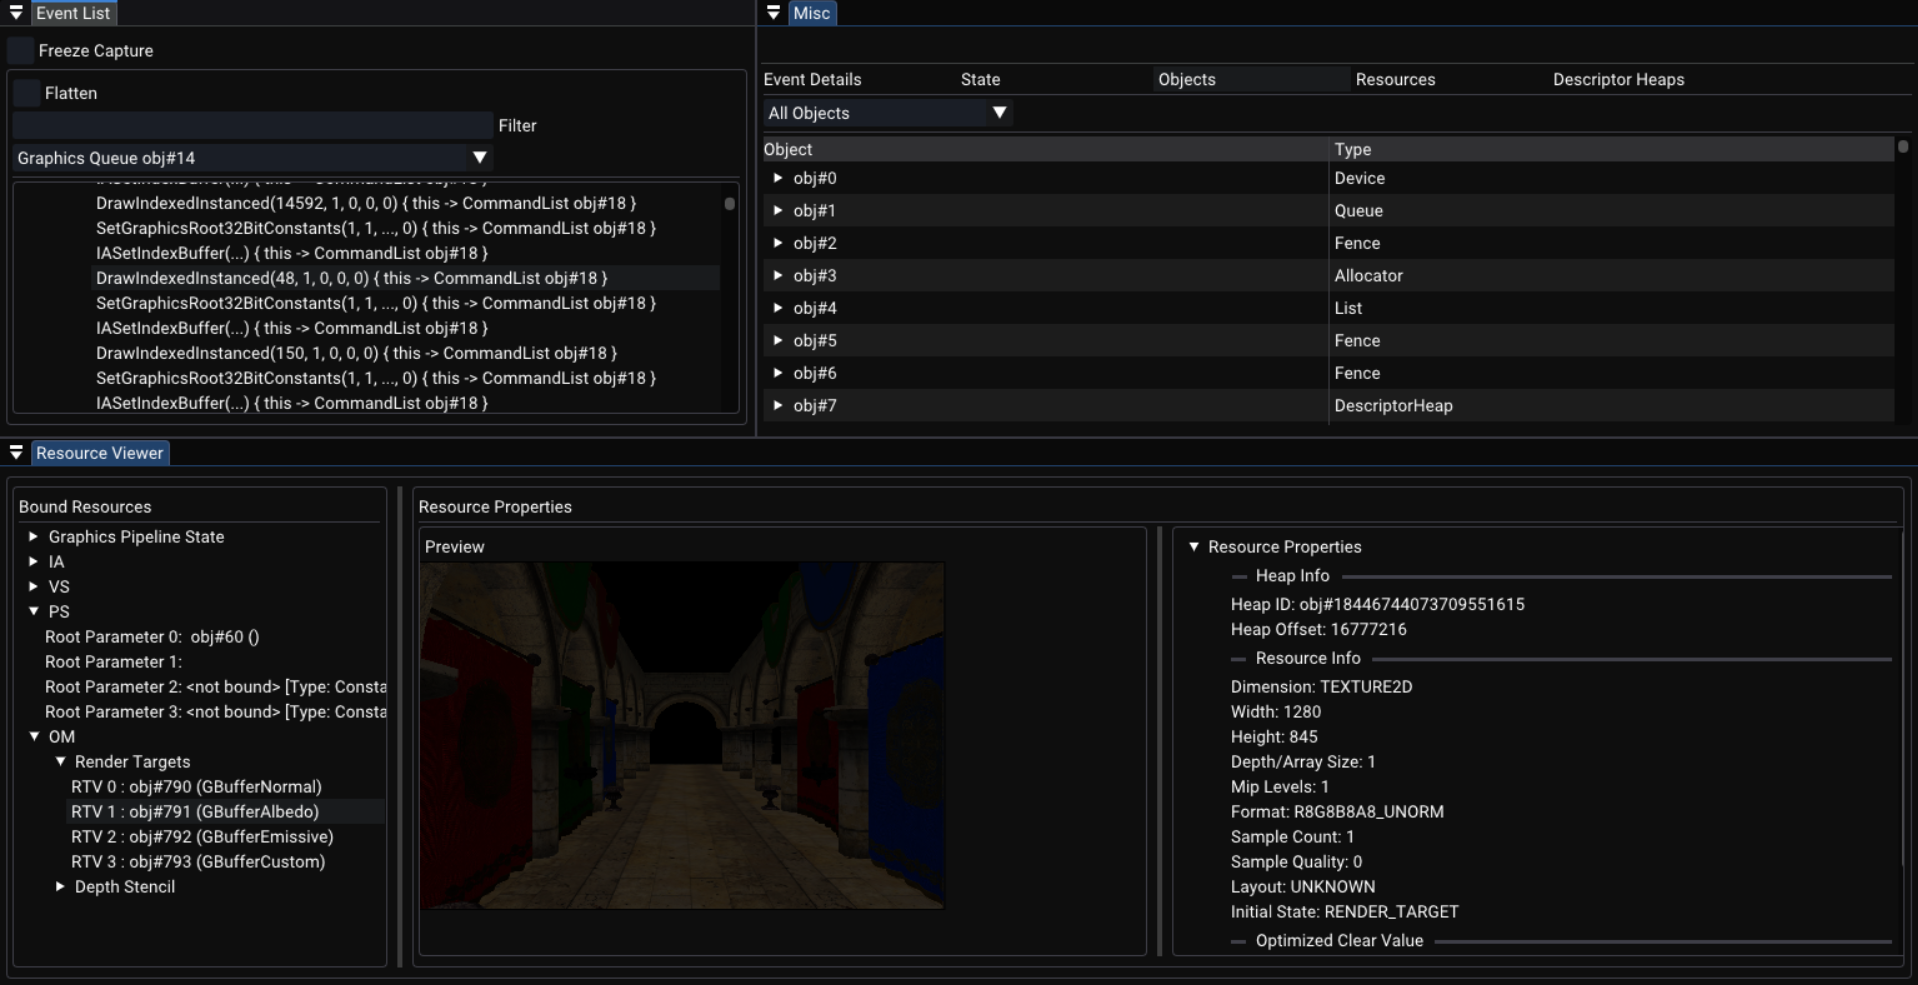
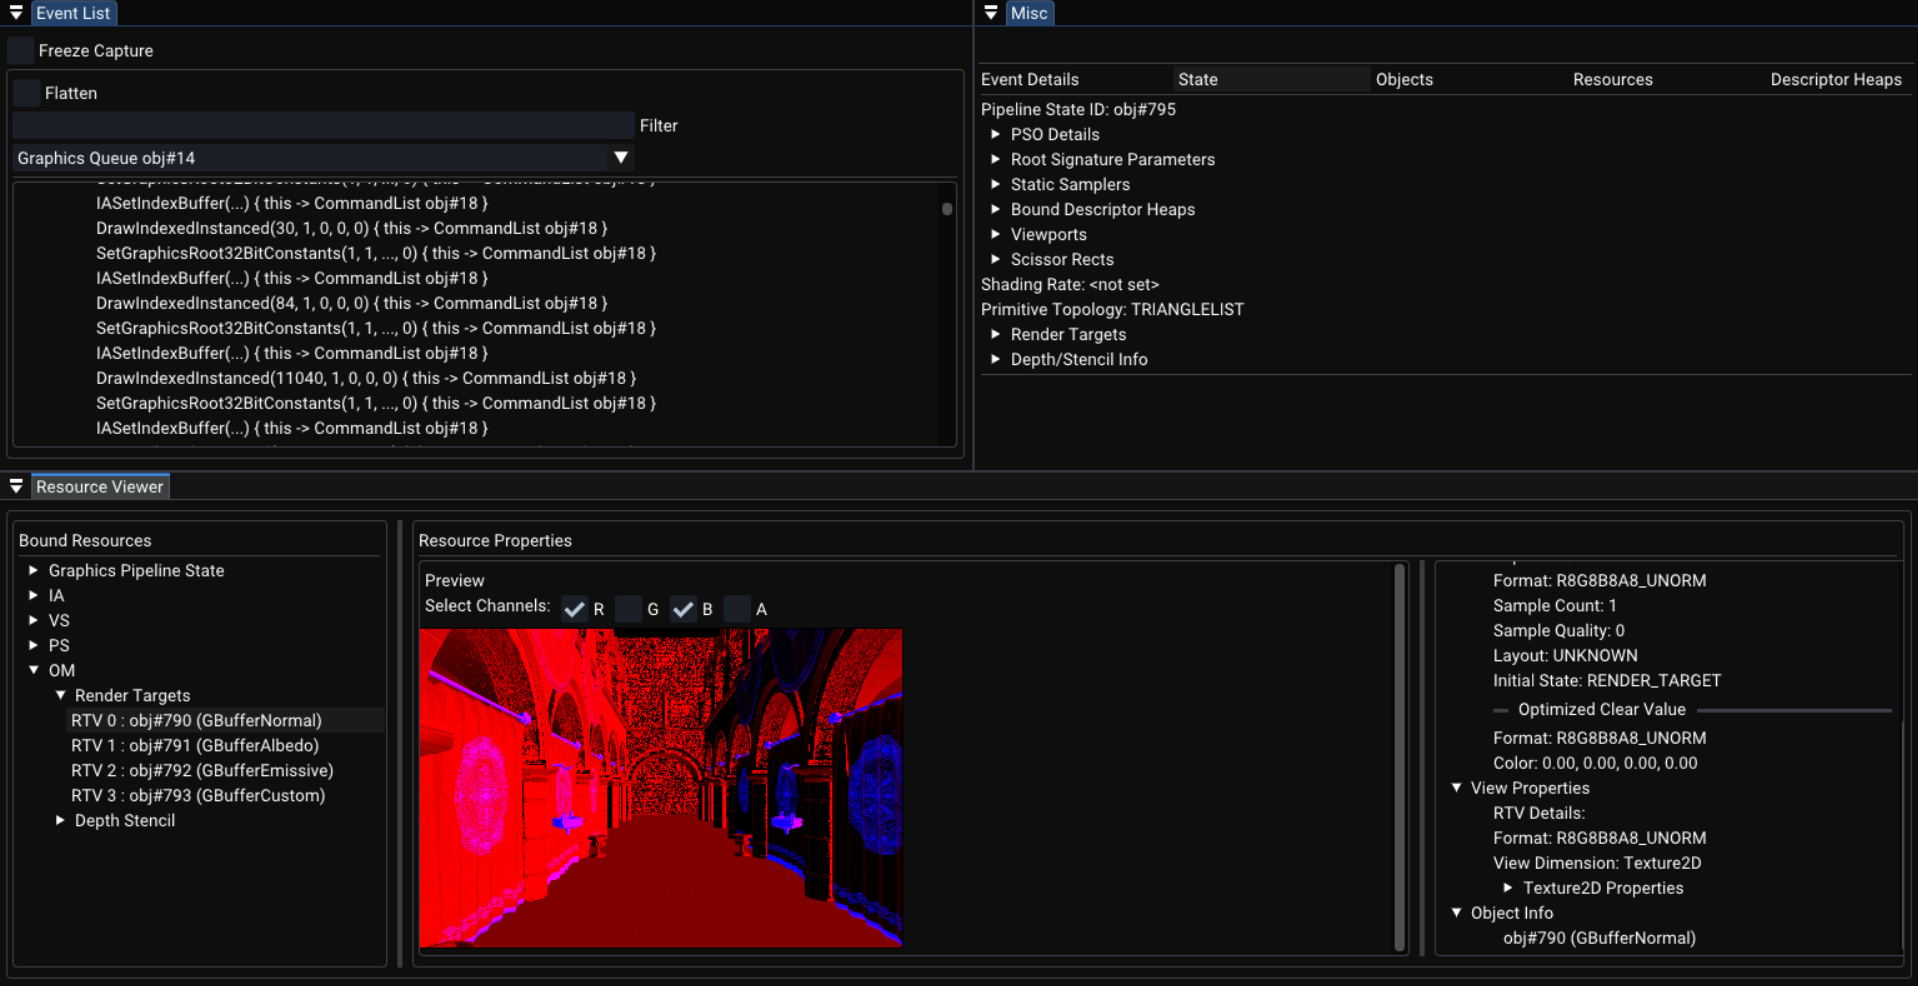
added channel selection for texture2d visualization

diff --git a/Vista/GUI/GUI.cpp b/Vista/GUI/GUI.cpp
@@ -1463,7 +1463,18 @@ namespace vista
 
 	void GUI::RenderTexture2DPreview(ID3D12Resource* resource, Float zoomFactor)
 	{
-		D3D12_RESOURCE_DESC resDesc = resource->GetDesc();
+		static Bool showR = true, showG = true, showB = true, showA = false;
+		ImGui::Text("Select Channels:");
+		ImGui::SameLine();
+		ImGui::Checkbox("R##ChannelR", &showR);
+		ImGui::SameLine();
+		ImGui::Checkbox("G##ChannelG", &showG);
+		ImGui::SameLine();
+		ImGui::Checkbox("B##ChannelB", &showB);
+		ImGui::SameLine();
+		ImGui::Checkbox("A##ChannelA", &showA);
+
+		D3D12_RESOURCE_DESC const& resDesc = resource->GetDesc();
 		Float aspectRatio = (Float)resDesc.Height / resDesc.Width;
 		Float availableWidth = ImGui::GetContentRegionAvail().x;
 		Float availableHeight = ImGui::GetContentRegionAvail().y;
@@ -1475,7 +1486,6 @@ namespace vista
 			defaultHeight = availableHeight;
 			defaultWidth = defaultHeight / aspectRatio;
 		}
-
 		Float zoomedWidth = defaultWidth * zoomFactor;
 		Float zoomedHeight = defaultHeight * zoomFactor;
 
@@ -1483,8 +1493,14 @@ namespace vista
 		srvDesc.Texture2D.MostDetailedMip = 0;
 		srvDesc.Texture2D.MipLevels = 1;
 		srvDesc.ViewDimension = D3D12_SRV_DIMENSION_TEXTURE2D;
-		srvDesc.Shader4ComponentMapping = D3D12_DEFAULT_SHADER_4_COMPONENT_MAPPING;
 		srvDesc.Format = resDesc.Format;
+		srvDesc.Shader4ComponentMapping = D3D12_ENCODE_SHADER_4_COMPONENT_MAPPING(
+			showR ? D3D12_SHADER_COMPONENT_MAPPING_FROM_MEMORY_COMPONENT_0 : D3D12_SHADER_COMPONENT_MAPPING_FORCE_VALUE_0,
+			showG ? D3D12_SHADER_COMPONENT_MAPPING_FROM_MEMORY_COMPONENT_1 : D3D12_SHADER_COMPONENT_MAPPING_FORCE_VALUE_0,
+			showB ? D3D12_SHADER_COMPONENT_MAPPING_FROM_MEMORY_COMPONENT_2 : D3D12_SHADER_COMPONENT_MAPPING_FORCE_VALUE_0,
+			showA ? D3D12_SHADER_COMPONENT_MAPPING_FROM_MEMORY_COMPONENT_3 : D3D12_SHADER_COMPONENT_MAPPING_FORCE_VALUE_1
+		);
+
 		switch (resDesc.Format)
 		{
 		case DXGI_FORMAT_R16_TYPELESS:
@@ -1501,19 +1517,15 @@ namespace vista
 			srvDesc.Format = DXGI_FORMAT_R32_FLOAT_X8X24_TYPELESS;
 			break;
 		}
-
 		D3D12_CPU_DESCRIPTOR_HANDLE srvHandle = imguiManager.GetCPUDescriptor();
 		imguiManager.GetDevice()->CreateShaderResourceView(resource, &srvDesc, srvHandle);
 
 		ImGui::SetCursorPos(ImVec2(0, ImGui::GetCursorPosY()));
-
 		ImVec2 imagePos = ImGui::GetCursorScreenPos();
 		ImVec2 imageSize = ImVec2(zoomedWidth, zoomedHeight);
-		ImDrawList* drawList = ImGui::GetWindowDrawList();
 
-		drawList->AddRectFilled(imagePos,
-			ImVec2(imagePos.x + imageSize.x, imagePos.y + imageSize.y),
-			IM_COL32(0, 0, 0, 255));
+		ImDrawList* drawList = ImGui::GetWindowDrawList();
+		drawList->AddRectFilled(imagePos, ImVec2(imagePos.x + imageSize.x, imagePos.y + imageSize.y), IM_COL32(0, 0, 0, 255));
 
 		ImGui::Image((ImTextureID)imguiManager.GetGPUDescriptor().ptr, ImVec2(zoomedWidth, zoomedHeight),
 			ImVec2(0, 0), ImVec2(1, 1), ImVec4(1, 1, 1, 1), ImVec4(0, 0, 0, 1));

diff --git a/Vista/GUI/ImGuiManager.h b/Vista/GUI/ImGuiManager.h
@@ -4,6 +4,7 @@ namespace vista
 {
 	class ImGuiManager
 	{
+		static constexpr Uint32 MaxFramesInFlight = 3;
 	public:
 		Bool Initialize(ID3D12Device*);
 		void Shutdown();
@@ -35,7 +36,6 @@ namespace vista
 		std::vector<Ref<ID3D12Resource>> backBuffers;
 		std::vector<D3D12_CPU_DESCRIPTOR_HANDLE> backBufferDescriptors;
 
-		static constexpr Uint32 MaxFramesInFlight = 3;
 		Uint32 bufferIndex = 0;
 		Uint32 bufferCount = MaxFramesInFlight;
 

diff --git a/README.md b/README.md
@@ -32,6 +32,7 @@ quickly identifying problematic command patterns, or generally observing GPU beh
   - Preview bound resources such as `Buffer, Texture2D` at the selected command
   - Resource information and descriptor view metadata shown side-by-side
   - Buffer format window for specifying custom buffer formats
+  - Channel selection for `Texture2D` preview
 
 ## Current State
 <img align="center" padding="2" src="Data/UI.png"/>
